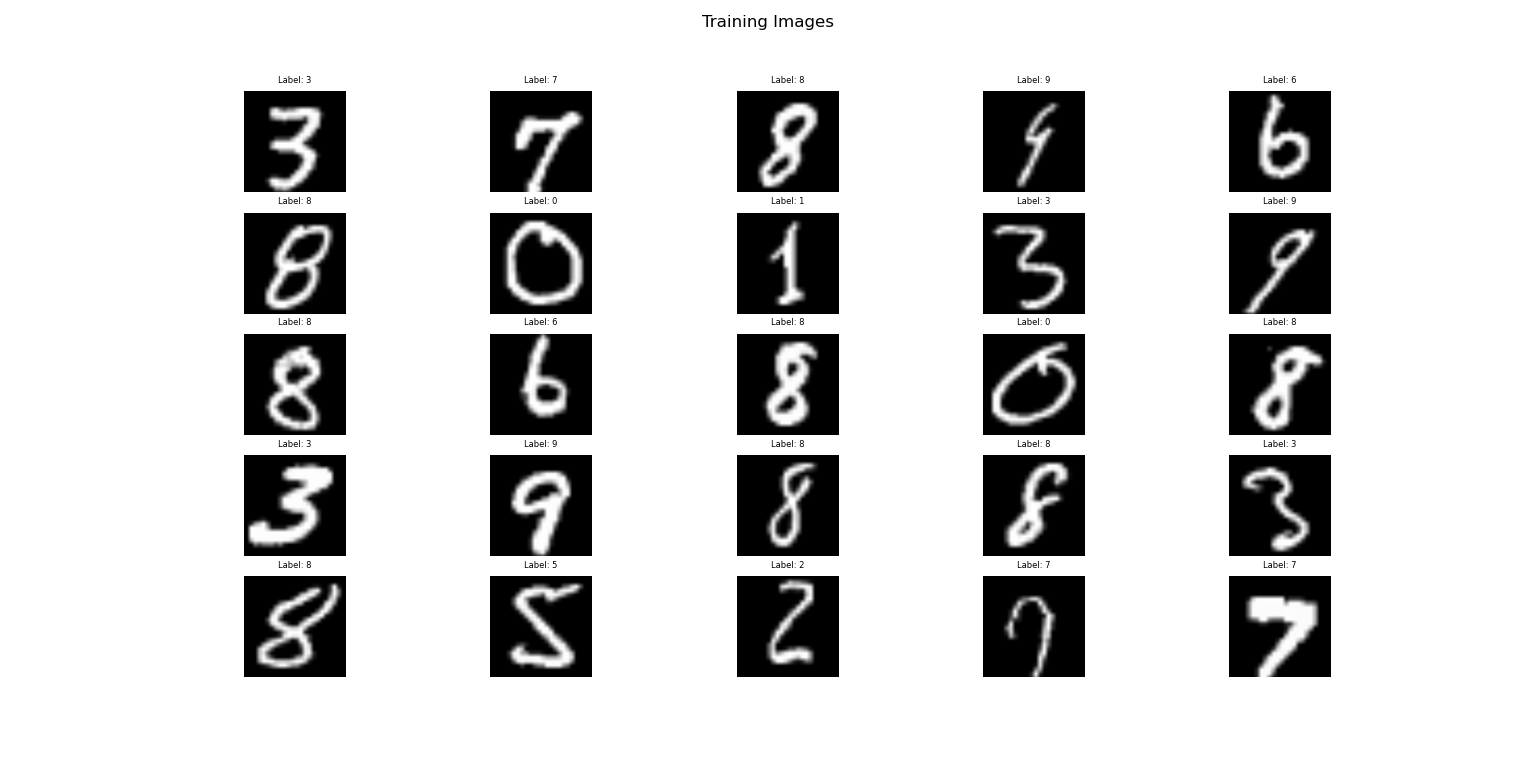
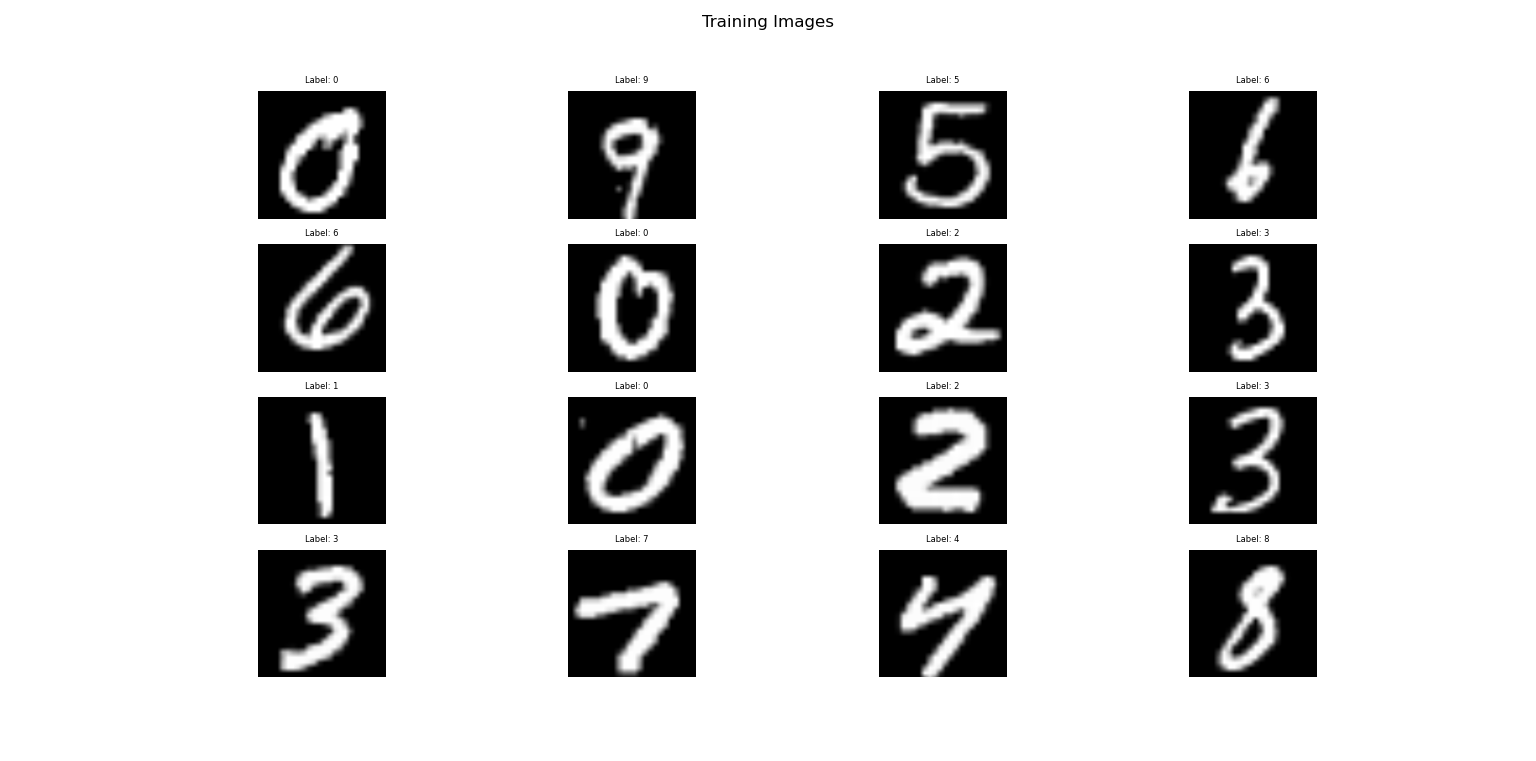
MNIST-VGG training and testing complete. Pipeline constructed. ToDo: Add logs to tensorboard to follow. Add outputs at the end of each model training. Loop over all model types. Construct and log the confusion matrices on tensorboard and save to disk.

Changed region(s): [[0.3125, 0.0907, 0.7188, 0.9067], [0.75, 0.0907, 0.875, 0.9067], [0.1562, 0.0907, 0.25, 0.9067]]

diff --git a/main_MNIST_VGG.py b/main_MNIST_VGG.py
@@ -4,9 +4,9 @@
 # Constructs a VGG model using PyTorch's implementation without any pretraining.
 # *********************************************************************************************************************
 import os
-import sys
 import time
 
+import numpy as np
 import torchvision.utils
 from matplotlib import pyplot as plt
 from six.moves import urllib
@@ -18,6 +18,7 @@ from torch import nn
 from torch.utils.data import DataLoader, random_split
 from torchvision import models
 from torch.utils.tensorboard import SummaryWriter
+
 
 if __name__ == '__main__':
     # Initialize torch device with GPU priority.
@@ -32,10 +33,10 @@ if __name__ == '__main__':
     image_save_dir = './reporting/results/MNIST/VGG'
 
     # Training Parameters:
-    batch_size = 128
+    batch_size = 16
     learning_rate = 0.1
     momentum = 0.9
-    epochs = 100
+    epochs = 2
 
     # Model Parameters:
     trn_tst_split = 0.8  # % range of training data to testing data
@@ -49,16 +50,17 @@ if __name__ == '__main__':
     urllib.request.install_opener(opener)
 
     # Normalization values of dataset from : https://discuss.pytorch.org/t/normalization-in-the-mnist-example/
-    transform = transforms.Compose([transforms.Resize(256), transforms.CenterCrop(224),
-                                    transforms.ToTensor(), transforms.Normalize((0.1307,), (0.3081,))])
-    train_data = datasets.MNIST(root=trn_dir, train=True, download=True, transform=transform)
+    trnsfrm = transforms.Compose([transforms.Resize(256), transforms.CenterCrop(224),
+                                  transforms.Grayscale(num_output_channels=3),
+                                  transforms.ToTensor(), transforms.Normalize((0.1307,), (0.3081,))])
+    train_data = datasets.MNIST(root=trn_dir, train=True, download=True, transform=trnsfrm)
     train, val = random_split(train_data, [55000, 5000])
-    test = datasets.MNIST(root=tst_dir, train=False, download=True, transform=transform)
+    test = datasets.MNIST(root=tst_dir, train=False, download=True, transform=trnsfrm)
 
     # Construct the loaders:
-    train_loader = DataLoader(dataset=train, batch_size=batch_size, shuffle=False)  # Training Loader
-    val_loader = DataLoader(dataset=val, batch_size=batch_size, shuffle=False)  # Validation Loader
-    test_loader = DataLoader(dataset=test, batch_size=batch_size, shuffle=False)  # Testing Loader
+    train_loader = DataLoader(dataset=train, batch_size=batch_size, shuffle=False)      # Training Loader
+    val_loader = DataLoader(dataset=val, batch_size=batch_size, shuffle=False)          # Validation Loader
+    test_loader = DataLoader(dataset=test, batch_size=batch_size, shuffle=False)        # Testing Loader
 
     # Visualize some of the training and testing samples:
     print("Number of Samples in Training Dataset: ", len(train))
@@ -68,14 +70,14 @@ if __name__ == '__main__':
     # Create Tensorboard Log: - Holds all the example images, histories and network architectures.
     writer = SummaryWriter(os.path.join(save_dir, 'runs/vgg11'))
     images, labels = next(iter(train_loader))
+    images, labels = images.to(device), labels.to(device)
 
+    # Construct the images: - Print as figure:
     # Create the subplot:
-    fig, axs = plt.subplots(5, 5)
+    fig, axs = plt.subplots(4, 4)
     fig.suptitle("Training Images")
-
-    # Construct the images:
     for (ax, image, label) in zip(axs.flat, images[0:25], labels[0:25]):
-        ax.imshow(image.reshape((224, 224)), cmap='gray')
+        ax.imshow(image[0].cpu(), cmap='gray')
         ax.set_title('Label: {}'.format(label)).set_fontsize('6')
         ax.axis('off')  # hide axes
     # plt.get_current_fig_manager().window.state('zoomed')  # maximize in windows
@@ -83,10 +85,8 @@ if __name__ == '__main__':
     # fig.savefig(os.path.join(image_save_dir, 'train_data_samples.png'))
     # plt.close(fig)
 
-    img_grid = torchvision.utils.make_grid(images)
-    writer.add_image('input_images', img_grid)
-    writer.close()
-    sys.exit()  # debug
+    # Log images to tensorboard:
+    writer.add_figure('input_images', fig, 0)
 
     # Model loading & Visualization: (All models are set to pretrained = False for the assignment's requirements.)
     vgg = [models.vgg11(pretrained=False), models.vgg11_bn(pretrained=False),
@@ -107,25 +107,54 @@ if __name__ == '__main__':
                   }
 
     # Construct the model, optimizer and loss function, then send model to device (GPU or CPU):
-    model = vgg[0].to(device)
-    loss = nn.CrossEntropyLoss()
+    model = vgg[0]
+    model.classifier[6] = nn.Linear(4096, 10)
+    model.to(device)
+    loss_criterion = nn.CrossEntropyLoss()
     optimizer = torch.optim.SGD(model.parameters(), lr=learning_rate, momentum=momentum)
 
+    writer.add_graph(model, images)
+
     start_time = time.time()
+    print('Start training.')
     for epoch in range(epochs):
-        # Todo: Training procedure:
-        # Forward Pass:
+        losses = list()
+        for i, (images, labels) in enumerate(train_loader):
+            images, labels = images.to(device), labels.to(device)
+            outputs = model(images)  # forward pass
+            loss = loss_criterion(outputs, labels)  # compute loss
 
-        # Backward Pass:
+            # compute accuracy:
+            acc = (outputs == labels)
 
-        # Loss Calculation
+            optimizer.zero_grad()  # clean the gradient
 
-        # Logging:
+            loss.backward()  # backpropagation
+            # params.grad._sum(dLoss/dparams)
 
-        NotImplementedError()
+            optimizer.step()  # step in opposite direction to gradient
+            # with torch.no_grad(): params -= eta*params.grad
+
+            # Training Logging:
+            losses.append(loss.item())
+            print(f'Iteration {i}, loss: {torch.tensor(losses).mean():.2f}')
+        print(f'Epoch {epoch+1}, training loss: {torch.tensor(losses).mean():.2f}')
+
+        vlosses = list()
+        for j, (vimages, vlabels) in enumerate(val_loader):
+            vimages, vlabels = images.to(device), labels.to(device)
+            with torch.no_grad():
+                voutputs = model(vimages)  # forward pass
+            vloss = loss_criterion(voutputs, vlabels)  # compute loss
+            optimizer.zero_grad()  # clean the gradient
+
+            # Training Logging:
+            vlosses.append(vloss.item())
+        print(f'Epoch {epoch + 1}, validation loss: {torch.tensor(vlosses).mean():.2f}')
 
     end_time = time.time()
     elapsed_time = end_time - start_time
     print('Training Time Elapsed: ', str(elapsed_time))
+    writer.close()
 
     # Todo: Testing procedure and logging to tensorboard
